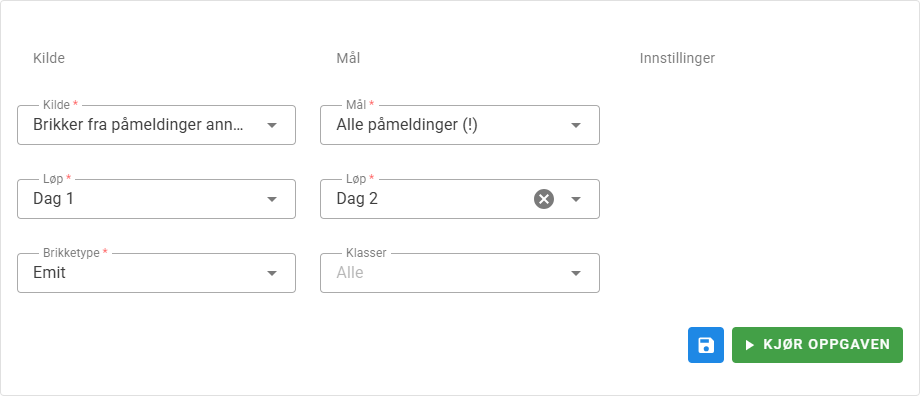
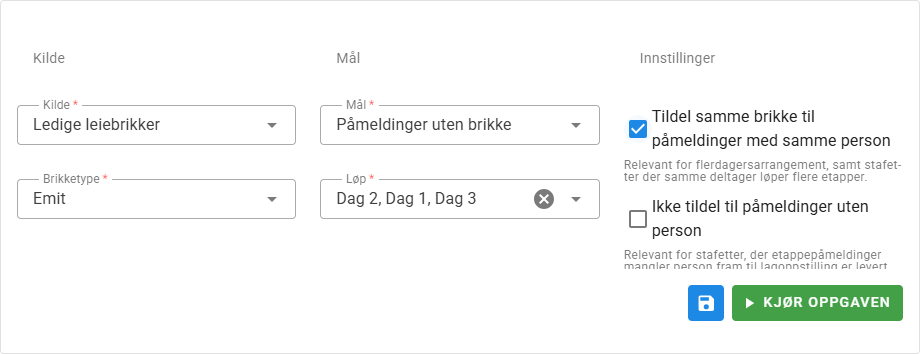
Update images in assign-cards documentation: replace outdated illustrations and add new visual example

diff --git a/nb/tasks/assign-cards.md b/nb/tasks/assign-cards.md
@@ -57,7 +57,7 @@ Hvis arrangementet inneholder flere løp er det mulig å tildele brikker til fle
 
 Hvis det er skal tildeles leiebrikker er det også mulig å velge ***Tildel samme brikke til påmelding med samme person*** slik at en person har samme leiebrikke i alle løp.
 
-
+![](assign-cards-1.png)
 
 ## Utskrift av leiebrikker
 
@@ -68,7 +68,7 @@ Bruk oppgaven for å skrive ut [startliste](/nb/tasks/start-list) hvis du trenge
 
 I arrangement med flere løp kan det være nyttig å kjøre oppgaven mellom hvert løp med følgende innstillinger for å overføre alle brikkeendringer til neste løp.
 
-![](assign-cards-1.png)
+![](assign-cards-2.png)
 
 
 ## Innstillinger